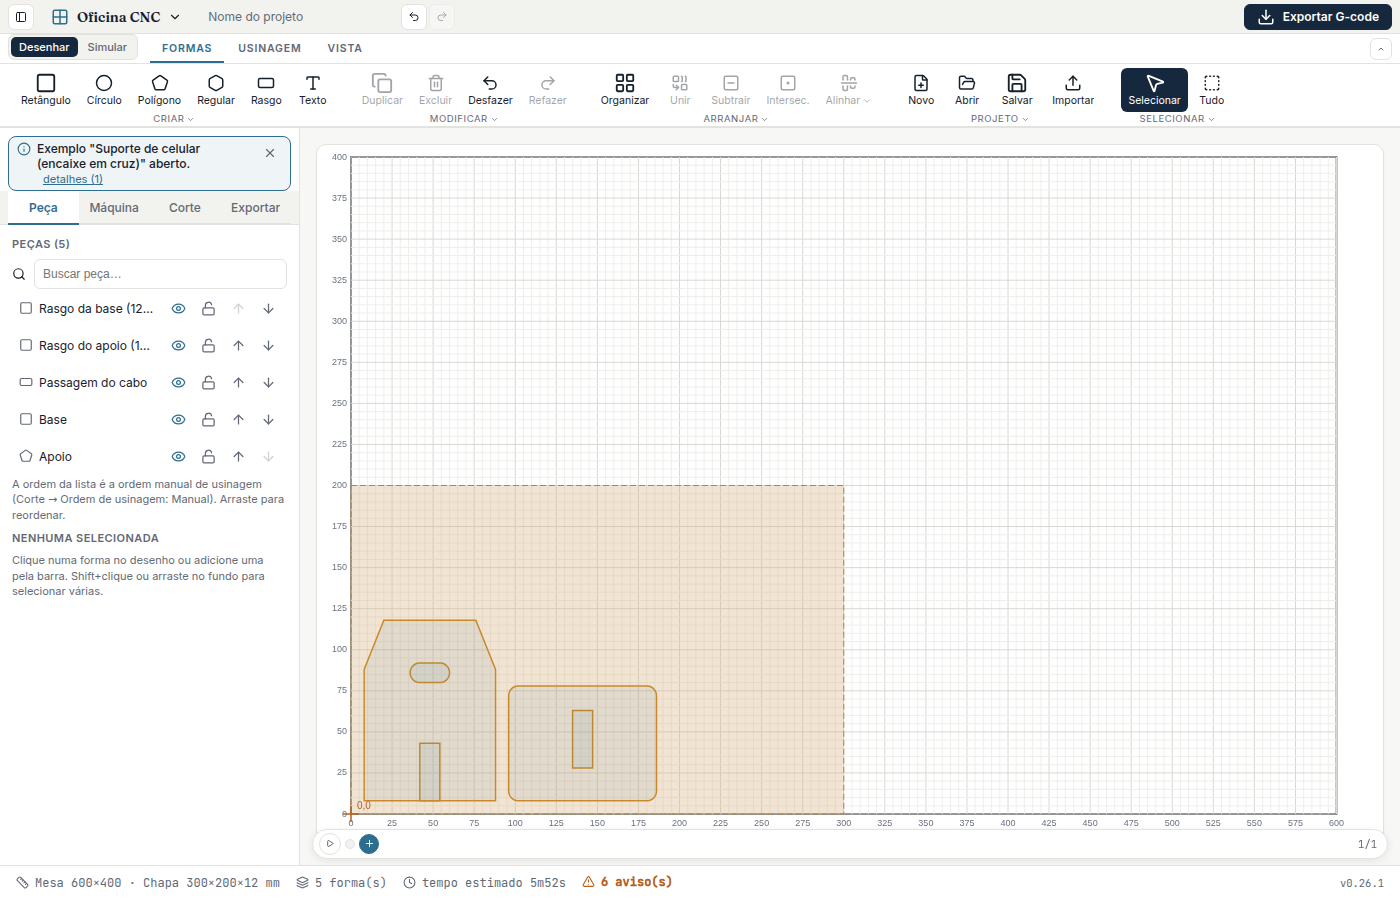
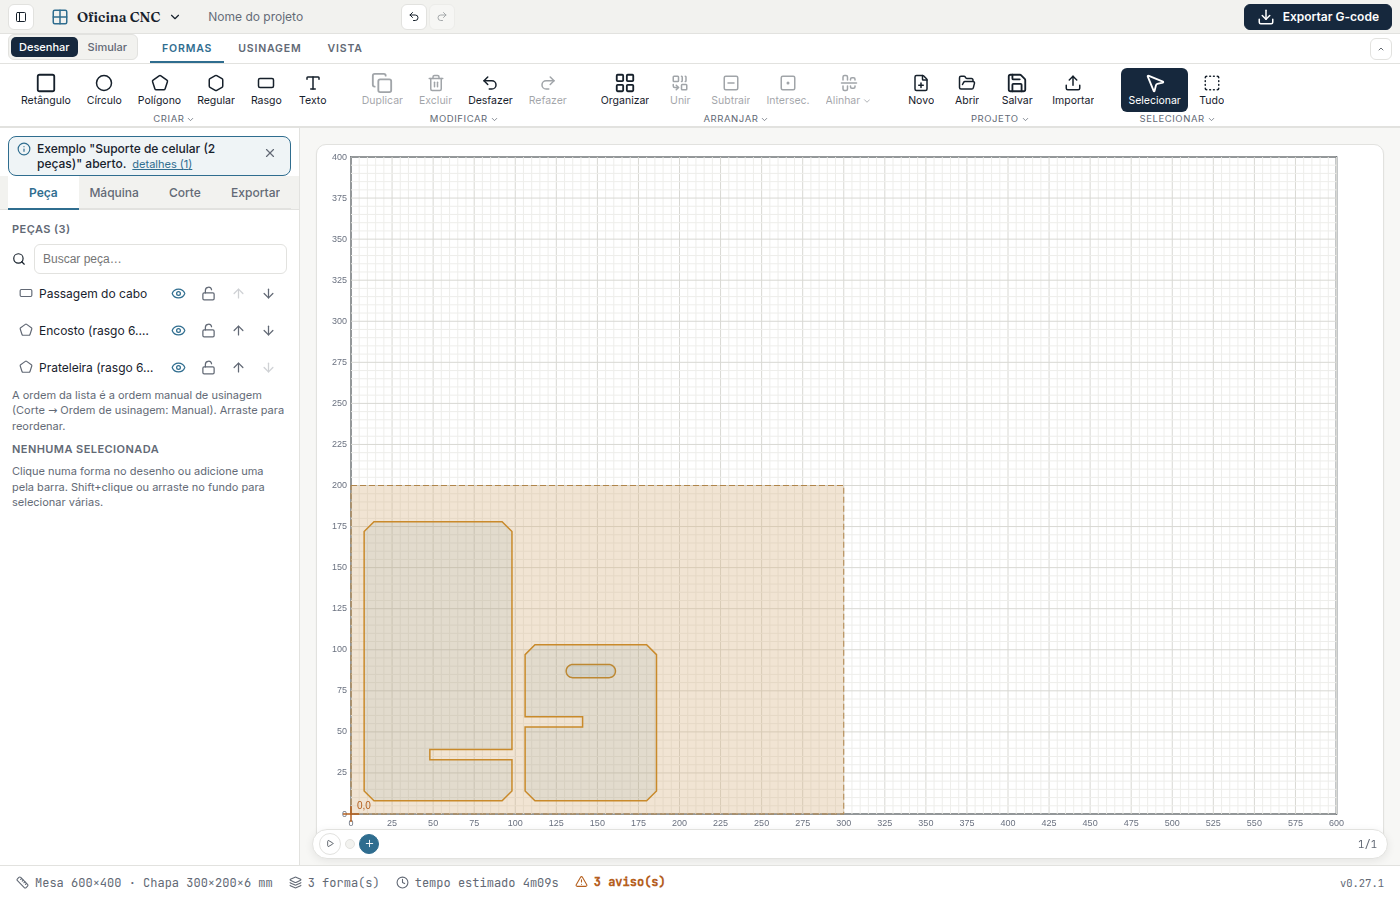
Sprints 26 + ajustes: exemplos de encaixe e uso diário, filtro na galeria; suporte de celular clássico, tábua e pratinho (v0.27.1)

Changed region(s): [[0.0, 0.1556, 0.215, 0.6844], [0.3071, 0.7156, 0.4607, 0.9022], [0.1843, 0.9644, 0.4914, 0.9956]]

diff --git a/src/content/examples.ts b/src/content/examples.ts
@@ -81,13 +81,6 @@ async function fromImage(url: string, widthMm: number, settings: MachineSettings
   const shapes = mm.map((r, i): PathShape => ({ id: `ex-img-${i}`, kind: "path", points: r.outer, holes: r.holes.length ? r.holes : undefined, closed: true, depth: 3, operation: "pocket" }));
   return { shapes: decorate(shapes), settings };
 }
-/** 2.5D relief from a bundled grayscale image. */
-async function fromRelief(url: string, id: string, widthMm: number, depthMax: number, settings: MachineSettings, extra: Partial<ReliefShape> = {}): Promise<Project> {
-  const gray = await loadPgm(url);
-  const shape: ReliefShape = { id, kind: "relief", x: 20, y: 20, width: widthMm, height: Math.round((widthMm * gray.h) / gray.w * 100) / 100, cols: gray.w, rows: gray.h, data: encodeGrid(gray.data), depthMax, depth: depthMax, operation: "pocket", name: "Relevo", ...extra };
-  return { shapes: [shape], settings };
-}
-
 export const EXAMPLES: Example[] = [
   {
     id: "placa-furos", category: "basico", difficulty: 1, tags: ["recorte", "furacao", "rebaixo"],
@@ -106,19 +99,19 @@ export const EXAMPLES: Example[] = [
   {
     id: "tabua-carnes", category: "cozinha", difficulty: 2, tags: ["recorte", "rebaixo", "texto"],
     title: "Tábua de carnes",
-    description: "Tábua 380 × 240 × 30 em pinus: cantos arredondados, alça com rasgo, canaleta para o suco e nome gravado.",
+    description: "Tábua 380 × 210 × 30 em pinus: cantos arredondados, alça com rasgo afastada da canaleta do suco e nome gravado.",
     teaches: "Chapa grossa (30 mm), rasgo por dentro para a alça, rebaixo em moldura (retângulo com furo por subtração), texto gravado com uma segunda fresa (troca de ferramenta), tabs.",
     build: () => {
-      const outerR: Shape = { id: "ex-c-out", kind: "rectangle", x: 30, y: 30, width: 300, height: 190, rotation: 0, depth: 4, operation: "pocket", corners: { type: "fillet", size: 14 } };
-      const innerR: Shape = { id: "ex-c-in", kind: "rectangle", x: 38, y: 38, width: 284, height: 174, rotation: 0, depth: 4, operation: "pocket", corners: { type: "fillet", size: 8 } };
+      const outerR: Shape = { id: "ex-c-out", kind: "rectangle", x: 32, y: 32, width: 276, height: 186, rotation: 0, depth: 4, operation: "pocket", corners: { type: "fillet", size: 14 } };
+      const innerR: Shape = { id: "ex-c-in", kind: "rectangle", x: 40, y: 40, width: 260, height: 170, rotation: 0, depth: 4, operation: "pocket", corners: { type: "fillet", size: 8 } };
       const groove = booleanShapes("difference", [outerR, innerR], () => "ex-canaleta")[0];
       groove.name = "Canaleta do suco";
       return {
         settings: base({ material: "pine", toolDiameter: 6, stepover: 3.6, passDepth: 4, feedRate: 1800, plungeRate: 600, spindleSpeed: 16000, stock: { ...DEFAULT_MACHINE_SETTINGS.stock, width: 420, height: 280, thickness: 30 }, workArea: { width: 600, height: 400, zTravel: 80 }, tools: [{ id: "ex-v", name: "V 60° gravação", type: "vbit", diameter: 3, vbitAngle: 60 }] }),
         shapes: [
           groove,
-          { id: "ex-c-nome", kind: "text", x: 180, y: 118, text: "CHURRASCO", fontId: "inter-bold", size: 22, rotation: 0, align: "center", letterSpacing: 3, depth: 2, operation: "pocket", name: "Nome gravado", toolId: "ex-v" },
-          { id: "ex-c-alca", kind: "slot", x: 342, y: 125, length: 60, width: 22, rotation: 90, depth: thru(30), operation: "outline", side: "inside", cutThrough: true, name: "Alça (rasgo)" },
+          { id: "ex-c-nome", kind: "text", x: 170, y: 118, text: "CHURRASCO", fontId: "inter-bold", size: 22, rotation: 0, align: "center", letterSpacing: 3, depth: 2, operation: "pocket", name: "Nome gravado", toolId: "ex-v" },
+          { id: "ex-c-alca", kind: "slot", x: 362, y: 125, length: 60, width: 22, rotation: 90, depth: thru(30), operation: "outline", side: "inside", cutThrough: true, name: "Alça (rasgo)" },
           { id: "ex-c-tabua", kind: "rectangle", x: 20, y: 20, width: 380, height: 210, rotation: 0, depth: thru(30), operation: "outline", side: "outside", cutThrough: true, name: "Tábua", corners: { type: "fillet", size: 20 }, tabs: { count: 6, width: 10, height: 4 } },
         ],
       };
@@ -231,23 +224,28 @@ export const EXAMPLES: Example[] = [
   },
   {
     id: "suporte-celular", category: "encaixe", difficulty: 2, tags: ["encaixe", "recorte", "nesting"],
-    title: "Suporte de celular (encaixe em cruz)",
-    description: "Base com rasgo e apoio inclinado com rasgo — as duas peças se cruzam e travam. Rasgo = espessura da chapa + 0,2 mm de folga.",
-    teaches: "Folga de encaixe (rasgo do tamanho da chapa não entra), duas peças que se cruzam, recorte para o cabo, peças já organizadas.",
+    title: "Suporte de celular (2 peças)",
+    description: "O clássico em MDF de 6 mm: encosto 90 × 170 com rasgo lateral e prateleira 80 × 95 com rasgo e passagem do cabo. Os rasgos se cruzam (um aberto de cada lado) e o encosto inclina sozinho.",
+    teaches: "Encaixe em cruz com rasgos abertos em lados opostos, folga = espessura + 0,2 mm, inclinação dada pela posição do rasgo, peças já organizadas. Dica: importe uma imagem e vaze o desenho no encosto.",
     build: () => {
-      const settings = base({ material: "mdf", toolDiameter: 3, stepover: 1.8, passDepth: 3 });
-      const t = slotFor(settings.stock.thickness); // 12.2
-      const baseW = 90, baseH = 70, standW = 80, standH = 110;
-      const basePart: Shape = { id: "ex-sc-base", kind: "rectangle", x: 0, y: 0, width: baseW, height: baseH, rotation: 0, corners: { type: "fillet", size: 6 }, depth: thru(12), operation: "outline", side: "outside", cutThrough: true, name: "Base", tabs: { count: 4, width: 8, height: 3 } };
-      const baseSlot: Shape = { id: "ex-sc-base-slot", kind: "rectangle", x: baseW / 2 - t / 2, y: 20, width: t, height: baseH / 2, rotation: 0, depth: thru(12), operation: "outline", side: "inside", cutThrough: true, name: `Rasgo da base (${t} mm)` };
-      const stand: PathShape = poly("ex-sc-stand", [[0, 0], [standW, 0], [standW, standH - 30], [standW - 12, standH], [12, standH], [0, standH - 30]], { depth: thru(12), operation: "outline", side: "outside", cutThrough: true, name: "Apoio", tabs: { count: 4, width: 8, height: 3 } });
-      const standSlot: Shape = { id: "ex-sc-stand-slot", kind: "rectangle", x: standW / 2 - t / 2, y: 0, width: t, height: baseH / 2, rotation: 0, depth: thru(12), operation: "outline", side: "inside", cutThrough: true, name: `Rasgo do apoio (${t} mm)` };
-      const cable: Shape = { id: "ex-sc-cable", kind: "slot", x: standW / 2, y: standH - 32, length: 24, width: 12, rotation: 0, depth: thru(12), operation: "outline", side: "inside", cutThrough: true, name: "Passagem do cabo" };
-      const parts = nested([basePart, stand], settings, 8);
-      const off = (id: string, ref: { x: number; y: number }, kids: Shape[]) => { const a = parts.find((p) => p.id === id) as { x: number; y: number }; return kids.map((k) => ({ ...k, x: (k as { x: number }).x + a.x - ref.x, y: (k as { y: number }).y + a.y - ref.y }) as Shape); };
-      const standAfter = parts.find((p) => p.id === "ex-sc-stand") as PathShape;
-      const [sx, sy] = standAfter.points[0];
-      return { settings, shapes: [...off("ex-sc-base", basePart as { x: number; y: number }, [baseSlot]), ...[standSlot, cable].map((k) => ({ ...k, x: (k as { x: number }).x + sx, y: (k as { y: number }).y + sy }) as Shape), ...parts] };
+      const settings = base({ material: "mdf", toolDiameter: 3, stepover: 1.8, passDepth: 3, stock: { ...DEFAULT_MACHINE_SETTINGS.stock, thickness: 6 } });
+      const t = slotFor(settings.stock.thickness); // 6.2
+      // Encosto: rasgo horizontal a 25 mm da base, aberto no lado direito, 50 mm de comprimento (a prateleira entra por aí).
+      const bw = 90, bh = 170, sh = 25, bslot = 50, r = 6;
+      const back = poly("ex-sc-encosto", [
+        [r, 0], [bw - r, 0], [bw, r], [bw, sh], [bw - bslot, sh], [bw - bslot, sh + t], [bw, sh + t], [bw, bh - r], [bw - r, bh], [r, bh], [0, bh - r], [0, r],
+      ], { depth: thru(6), operation: "outline", side: "outside", cutThrough: true, name: `Encosto (rasgo ${t} mm, aberto à direita)`, tabs: { count: 4, width: 6, height: 2 } });
+      // Prateleira: 80 de largura × 95 de fundo; rasgo a 45 mm da borda de trás, aberto no lado esquerdo, 35 mm — completa os 85 mm da largura útil.
+      const pw = 80, pd = 95, rear = 45, pslot = 35;
+      const shelf = poly("ex-sc-prateleira", [
+        [0, r], [r, 0], [pw - r, 0], [pw, r], [pw, pd - r], [pw - r, pd], [r, pd], [0, pd - r],
+        [0, rear + t], [pslot, rear + t], [pslot, rear], [0, rear],
+      ], { depth: thru(6), operation: "outline", side: "outside", cutThrough: true, name: `Prateleira (rasgo ${t} mm, aberto à esquerda)`, tabs: { count: 4, width: 6, height: 2 } });
+      const cable: Shape = { id: "ex-sc-cabo", kind: "slot", x: pw / 2, y: pd - 16, length: 30, width: 8, rotation: 0, depth: thru(6), operation: "outline", side: "inside", cutThrough: true, name: "Passagem do cabo" };
+      const parts = nested([back, shelf], settings, 8);
+      const shelfAfter = parts.find((p) => p.id === "ex-sc-prateleira") as PathShape;
+      const [sx, sy] = shelfAfter.points[0]; // primeiro ponto = (0, r) da prateleira original
+      return { settings, shapes: [{ ...cable, x: cable.x + sx, y: cable.y + sy - r } as Shape, ...parts] };
     },
   },
   {
@@ -356,11 +354,30 @@ export const EXAMPLES: Example[] = [
     ]),
   },
   {
-    id: "relevo-oficina", category: "decoracao", difficulty: 3, tags: ["relevo", "importacao"],
-    title: "Relevo em 2,5D (imagem)",
-    description: "Cúpula com ondas usinada em raster a partir de uma imagem em tons de cinza: branco fica na superfície, preto desce 4 mm.",
-    teaches: "Relevo por heightmap: fresa esférica, passo fino entre linhas, desbaste em passes e acabamento — leva mais tempo que um rebaixo comum.",
-    build: () => fromRelief("/examples/relevo-oficina.pgm", "ex-relief", 150, 4, base({ material: "mdf", toolDiameter: 3, toolType: "ball", stepover: 1, passDepth: 2, feedRate: 1200 }), { name: "Relevo da oficina", lineStep: 1 }),
+    id: "pratinho-relevo", category: "cozinha", difficulty: 3, tags: ["relevo", "recorte"],
+    title: "Pratinho côncavo (relevo 2,5D)",
+    description: "Prato Ø150 em pinus de 30 mm com o centro escavado em curva suave (8 mm no meio, borda plana de 12 mm) e recorte redondo — para petiscos, chaves ou moedas.",
+    teaches: "Relevo por heightmap gerado por fórmula (não precisa de imagem): fresa esférica, desbaste em passes e acabamento raster; depois o recorte por fora com tabs.",
+    build: () => {
+      const settings = base({ material: "pine", toolDiameter: 6, toolType: "ball", stepover: 1.5, passDepth: 3, feedRate: 1500, plungeRate: 500, spindleSpeed: 16000, stock: { ...DEFAULT_MACHINE_SETTINGS.stock, width: 300, height: 200, thickness: 30 }, workArea: { width: 600, height: 400, zTravel: 80 } });
+      const D = 150, cx = 150, cy = 100, rim = 12, depthMax = 8;
+      const cols = 150, rows = 150, grid = new Uint8Array(cols * rows);
+      const rIn = D / 2 - rim;
+      for (let r = 0; r < rows; r++) for (let c = 0; c < cols; c++) {
+        const dx = ((c + 0.5) / cols - 0.5) * D, dy = ((r + 0.5) / rows - 0.5) * D, d = Math.hypot(dx, dy);
+        // perfil em cosseno: fundo suave, sobe até a borda; branco (255) = superfície, preto (0) = fundo
+        const k = d >= rIn ? 0 : 0.5 * (1 + Math.cos((Math.PI * d) / rIn)); // 1 no centro → 0 na borda interna
+        grid[r * cols + c] = Math.round(255 * (1 - k));
+      }
+      const dish: ReliefShape = { id: "ex-pr-relevo", kind: "relief", x: cx - D / 2, y: cy - D / 2, width: D, height: D, cols, rows, data: encodeGrid(grid), depthMax, depth: depthMax, operation: "pocket", name: "Concavidade (8 mm)", lineStep: 1.5 };
+      return {
+        settings,
+        shapes: [
+          dish,
+          { id: "ex-pr-disco", kind: "circle", x: cx, y: cy, radius: D / 2, depth: thru(30), operation: "outline", side: "outside", cutThrough: true, name: "Prato", tabs: { count: 6, width: 10, height: 4 } },
+        ],
+      };
+    },
   },
   {
     id: "placa-pata", category: "importado", difficulty: 1, tags: ["importacao", "rebaixo", "furacao", "recorte"],

diff --git a/src/lib/__tests__/examples.test.ts b/src/lib/__tests__/examples.test.ts
@@ -48,7 +48,7 @@ describe("exemplos", () => {
     const fox = await findExample("placa-raposa")!.build();
     expect(fox.shapes.some((s) => s.kind === "path" && (s.holes?.length ?? 0) >= 3)).toBe(true);
     expect(fox.shapes.filter((s) => s.operation === "pocket").length).toBeGreaterThanOrEqual(2);
-    const relief = await findExample("relevo-oficina")!.build();
+    const relief = await findExample("pratinho-relevo")!.build();
     expect(relief.shapes[0].kind).toBe("relief");
     const pata = await findExample("placa-pata")!.build();
     expect(pata.shapes.filter((s) => s.operation === "pocket").length).toBeGreaterThanOrEqual(5);
@@ -70,9 +70,8 @@ describe("sprint 26: encaixes, tags, nesting", () => {
   });
   it("suporte: rasgos = espessura + 0,2; caixa: 5 peças dentro da chapa sem sobreposição; dobradiça ≥ 50 rasgos; gabarito 12 furos", async () => {
     const sc = await findExample("suporte-celular")!.build();
-    const slots = sc.shapes.filter((s) => s.name?.startsWith("Rasgo"));
-    expect(slots).toHaveLength(2);
-    expect(slots.every((s) => s.kind === "rectangle" && s.width === 12.2)).toBe(true);
+    expect(sc.shapes).toHaveLength(3);
+    expect(sc.shapes.filter((s) => s.name?.includes("rasgo 6.2 mm"))).toHaveLength(2);
     const cx = await findExample("caixa-dedos")!.build();
     expect(cx.shapes).toHaveLength(5);
     const dv = await findExample("dobradica-viva")!.build();

diff --git a/e2e/sprint25.spec.ts b/e2e/sprint25.spec.ts
@@ -22,7 +22,7 @@ test.describe("sprint 25: importar imagem (silhueta e relevo), exemplos de image
     await page.getByTestId("project-menu").click();
     const chooser2 = page.waitForEvent("filechooser");
     await page.getByTestId("menu-import").click();
-    await (await chooser2).setFiles({ name: "relevo.png", mimeType: "image/png", buffer: readFileSync("public/examples/relevo-oficina.png") });
+    await (await chooser2).setFiles({ name: "relevo.png", mimeType: "image/png", buffer: png });
     await page.getByTestId("ii-mode-relief").click();
     await page.getByTestId("ii-apply").click();
     await expect(page.getByTestId("notice")).toContainText("Relevo importado");
@@ -36,8 +36,8 @@ test.describe("sprint 25: importar imagem (silhueta e relevo), exemplos de image
     await page.getByTestId("empty-close").click();
     await page.getByTestId("project-menu").click();
     await page.getByTestId("menu-examples").click();
-    await page.getByTestId("gallery-relevo-oficina").click();
-    await expect(page.getByTestId("status-shapes")).toHaveText("1 forma(s)");
+    await page.getByTestId("gallery-pratinho-relevo").click();
+    await expect(page.getByTestId("status-shapes")).toHaveText("2 forma(s)");
     await page.getByTestId("section-toggle-cut").click();
     await expect(page.getByTestId("pocket-strategy")).toHaveValue("contour");
     await page.getByTestId("pocket-icons-zigzag").click();

diff --git a/e2e/sprint26.spec.ts b/e2e/sprint26.spec.ts
@@ -20,7 +20,7 @@ test.describe("sprint 26: exemplos de encaixe, filtro na galeria, aviso de folga
     await page.getByTestId("menu-examples").click();
     await page.getByTestId("gallery-suporte-celular").click();
     await page.getByTestId("ask-ok").click();
-    await expect(page.getByTestId("status-shapes")).toHaveText("5 forma(s)");
+    await expect(page.getByTestId("status-shapes")).toHaveText("3 forma(s)");
     await page.getByTestId("tab-simulator").click();
     await expect(page.getByTestId("simulate-toggle")).toBeEnabled();
   });

diff --git a/README.md b/README.md
@@ -2,7 +2,7 @@
 
 Editor web para CNC router: desenhe peças (formas prontas ou SVG importado) sobre a mesa e a chapa da sua máquina, configure a máquina e exporte G-code (GRBL, Marlin ou LinuxCNC/Mach3, em mm ou polegadas), com simulação 3D do percurso da fresa antes de rodar na máquina.
 
-Funcionalidades atuais: importação de imagem (PNG/JPG → silhueta vetorizada ou relevo 2,5D), rebaixos por contorno paralelo, 14 exemplos em galeria com filtro por assunto (encaixes com folga, caixa de dedos, dobradiça viva, bandeja, gabarito 32, tábua, número da casa, relógio, engrenagens, placas por SVG e imagem, relevo), ilustrações nas opções, barra estilo Fusion (abas, menus de grupo, tooltips), operações adicionais por peça, verificação do resultado, link do projeto, exemplos prontos e tour de primeiro uso, preferências de densidade/texto, booleanas (união/subtração/interseção), nesting automático na chapa, texto com fontes embarcadas, rebaixos com ilhas, hélice de entrada, furação com bicadas, estimativa de tempo com aceleração, pós-processadores GRBL/Marlin/LinuxCNC e G20; importação SVG/DXF, várias fresas por projeto (troca com M0), navegador de peças, tema escuro, simulador 3D em tempo real com remoção de material, fresa realista e ViewCube, passo a passo (segmento/passe/forma), barra de tempo e estimativa de tempo total; presets de máquina (3018, 3040, 6040, 6090, 1010, 1325 ou personalizada), presets de material (MDF, compensado, pinus, alumínio) que preenchem avanço/mergulho/RPM/passe/stepover a partir do Ø da fresa (com override manual), chapa/base com espessura, posição e origem (canto ou centro), validação de limites (fora da mesa/chapa, profundidade × espessura × curso Z), editor em mm com grade e réguas, exportação GRBL multi-passe (contorno e pocket), persistência local do projeto.
+Funcionalidades atuais: importação de imagem (PNG/JPG → silhueta vetorizada ou relevo 2,5D), rebaixos por contorno paralelo, 14 exemplos em galeria com filtro por assunto (encaixes com folga, caixa de dedos, dobradiça viva, bandeja, gabarito 32, tábua, número da casa, relógio, engrenagens, placas por SVG e imagem, pratinho em relevo 2,5D), ilustrações nas opções, barra estilo Fusion (abas, menus de grupo, tooltips), operações adicionais por peça, verificação do resultado, link do projeto, exemplos prontos e tour de primeiro uso, preferências de densidade/texto, booleanas (união/subtração/interseção), nesting automático na chapa, texto com fontes embarcadas, rebaixos com ilhas, hélice de entrada, furação com bicadas, estimativa de tempo com aceleração, pós-processadores GRBL/Marlin/LinuxCNC e G20; importação SVG/DXF, várias fresas por projeto (troca com M0), navegador de peças, tema escuro, simulador 3D em tempo real com remoção de material, fresa realista e ViewCube, passo a passo (segmento/passe/forma), barra de tempo e estimativa de tempo total; presets de máquina (3018, 3040, 6040, 6090, 1010, 1325 ou personalizada), presets de material (MDF, compensado, pinus, alumínio) que preenchem avanço/mergulho/RPM/passe/stepover a partir do Ø da fresa (com override manual), chapa/base com espessura, posição e origem (canto ou centro), validação de limites (fora da mesa/chapa, profundidade × espessura × curso Z), editor em mm com grade e réguas, exportação GRBL multi-passe (contorno e pocket), persistência local do projeto.
 
 100% client-side — não precisa de servidor/backend para funcionar. Instalável como **PWA** (funciona offline) e responsivo (desktop, tablet e celular com toque). Produção: [oficina-cnc.vercel.app](https://oficina-cnc.vercel.app) (marca **Oficina CNC**, Open Graph e ícones próprios).
 

diff --git a/docs/sprints/sprint-26-exemplos-encaixe.md b/docs/sprints/sprint-26-exemplos-encaixe.md
@@ -68,3 +68,12 @@ function fingerJointEdge(len: number, thickness: number, count: number, clearanc
 - Bandeja: Verificação sem "não alcançado" nos bolsões e sem sobrecorte nas paredes.
 - Galeria: chips filtram, contagem bate, filtro + busca compõem, 0 violações axe.
 - e2e novo `sprint26.spec.ts`; specs anteriores continuam passando (nº de cards ≥ 11 vira ≥ 15).
+## Ajuste pós-sprint (v0.27.1)
+- **Tábua de carnes**: alça afastada da canaleta (canaleta 276 × 186 a partir de x = 32; alça em x = 362, ~40 mm de margem).
+- **Suporte de celular** refeito no modelo clássico de 2 peças em MDF 6 mm (referência enviada pelo autor): **encosto** 90 × 170 com rasgo horizontal a 25 mm da base aberto à direita (50 mm) e **prateleira** 80 × 95 com rasgo a 45 mm da borda de trás aberto à esquerda (35 mm) + passagem do cabo; os rasgos se cruzam e o encosto inclina sozinho até a prateleira tocar a mesa. Largura dos rasgos = `slotFor(6) = 6,2`. Antes os rasgos eram fechados no meio das peças e não montavam.
+- **Relevo em 2,5D (imagem)** saiu (não tinha uso). No lugar, **Pratinho côncavo (relevo 2,5D)**: prato Ø150 em pinus 30 mm com concavidade em cosseno (8 mm) gerada por fórmula + recorte — mesmo recurso, peça útil. `relevo-oficina.pgm/png` saíram do repositório.
+
+![Suporte de celular](img/sprint-26-suporte-celular.png)
+![Pratinho](img/sprint-26-pratinho-relevo.png)
+![Pratinho no simulador](img/sprint-26-pratinho-sim.png)
+

diff --git a/docs/sprints/sprint-25-imagens.md b/docs/sprints/sprint-25-imagens.md
@@ -52,6 +52,7 @@ lib/relief.ts: reliefToolpath(shape, settings, tool): Segment[]
 ![Engrenagens](img/sprint-25-engrenagens.png)
 
 ## Como ficou
+- (v0.27.1) O exemplo "Relevo em 2,5D (imagem)" foi substituído pelo **Pratinho côncavo**, com o heightmap gerado por fórmula; `relevo-oficina.*` saíram.
 - Exemplos embarcados usam **PGM** (cinza binário) em `public/examples/*.pgm` — o mesmo pipeline do diálogo, sem decodificador de PNG no Node (os testes constroem todos os exemplos). Os PNGs equivalentes ficam ao lado para quem quiser testar o "Importar".
 - Relevo mantém a grade ≤ 400 px de largura; a peça é tratada pela caixa envolvente no navegador/nesting.
 - Estratégia de rebaixo é do projeto (painel Corte), não da peça.
@@ -60,7 +61,7 @@ lib/relief.ts: reliefToolpath(shape, settings, tool): Segment[]
 ![Importar imagem](img/sprint-25-importar.png)
 ![Galeria](img/sprint-25-galeria.png)
 ![Raposa vetorizada](img/sprint-25-raposa.png)
-![Relevo no simulador](img/sprint-25-relevo-sim.png)
+
 
 ## DoD específica
 - PNG preto e branco de um logotipo vira peças com furos em ≤ 2 s (1000 × 1000 px) e recorta/grava sem cortes fora (verificação 0 mm²).

diff --git a/CHANGELOG.md b/CHANGELOG.md
@@ -14,6 +14,15 @@ Formato baseado em [Keep a Changelog](https://keepachangelog.com/pt-BR/1.1.0/). 
 - Regra de copy para agentes em `AGENTS.md`, `.cursor/rules/copy.mdc` e `ui.mdc` (Claude lê via `CLAUDE.md` → `AGENTS.md`).
 - Testes: stub de `localStorage` no setup (Node 25 expõe um `localStorage` experimental sem `setItem`).
 
+## [0.27.1] — 2026-08-16
+
+### Corrigido
+- **Suporte de celular**: refeito no modelo clássico de 2 peças (encosto com rasgo lateral + prateleira com rasgo do outro lado e passagem do cabo, MDF 6 mm) — antes os rasgos eram fechados e as peças não montavam.
+- **Tábua de carnes**: alça afastada da canaleta do suco.
+
+### Alterado
+- Exemplo "Relevo em 2,5D (imagem)" deu lugar ao **Pratinho côncavo (relevo 2,5D)** — mesmo recurso, peça útil (prato Ø150 com concavidade de 8 mm gerada por fórmula).
+
 ## [0.27.0 — Sprint 26 — Exemplos de encaixe e uso diário] — 2026-08-16
 
 ### Adicionado
